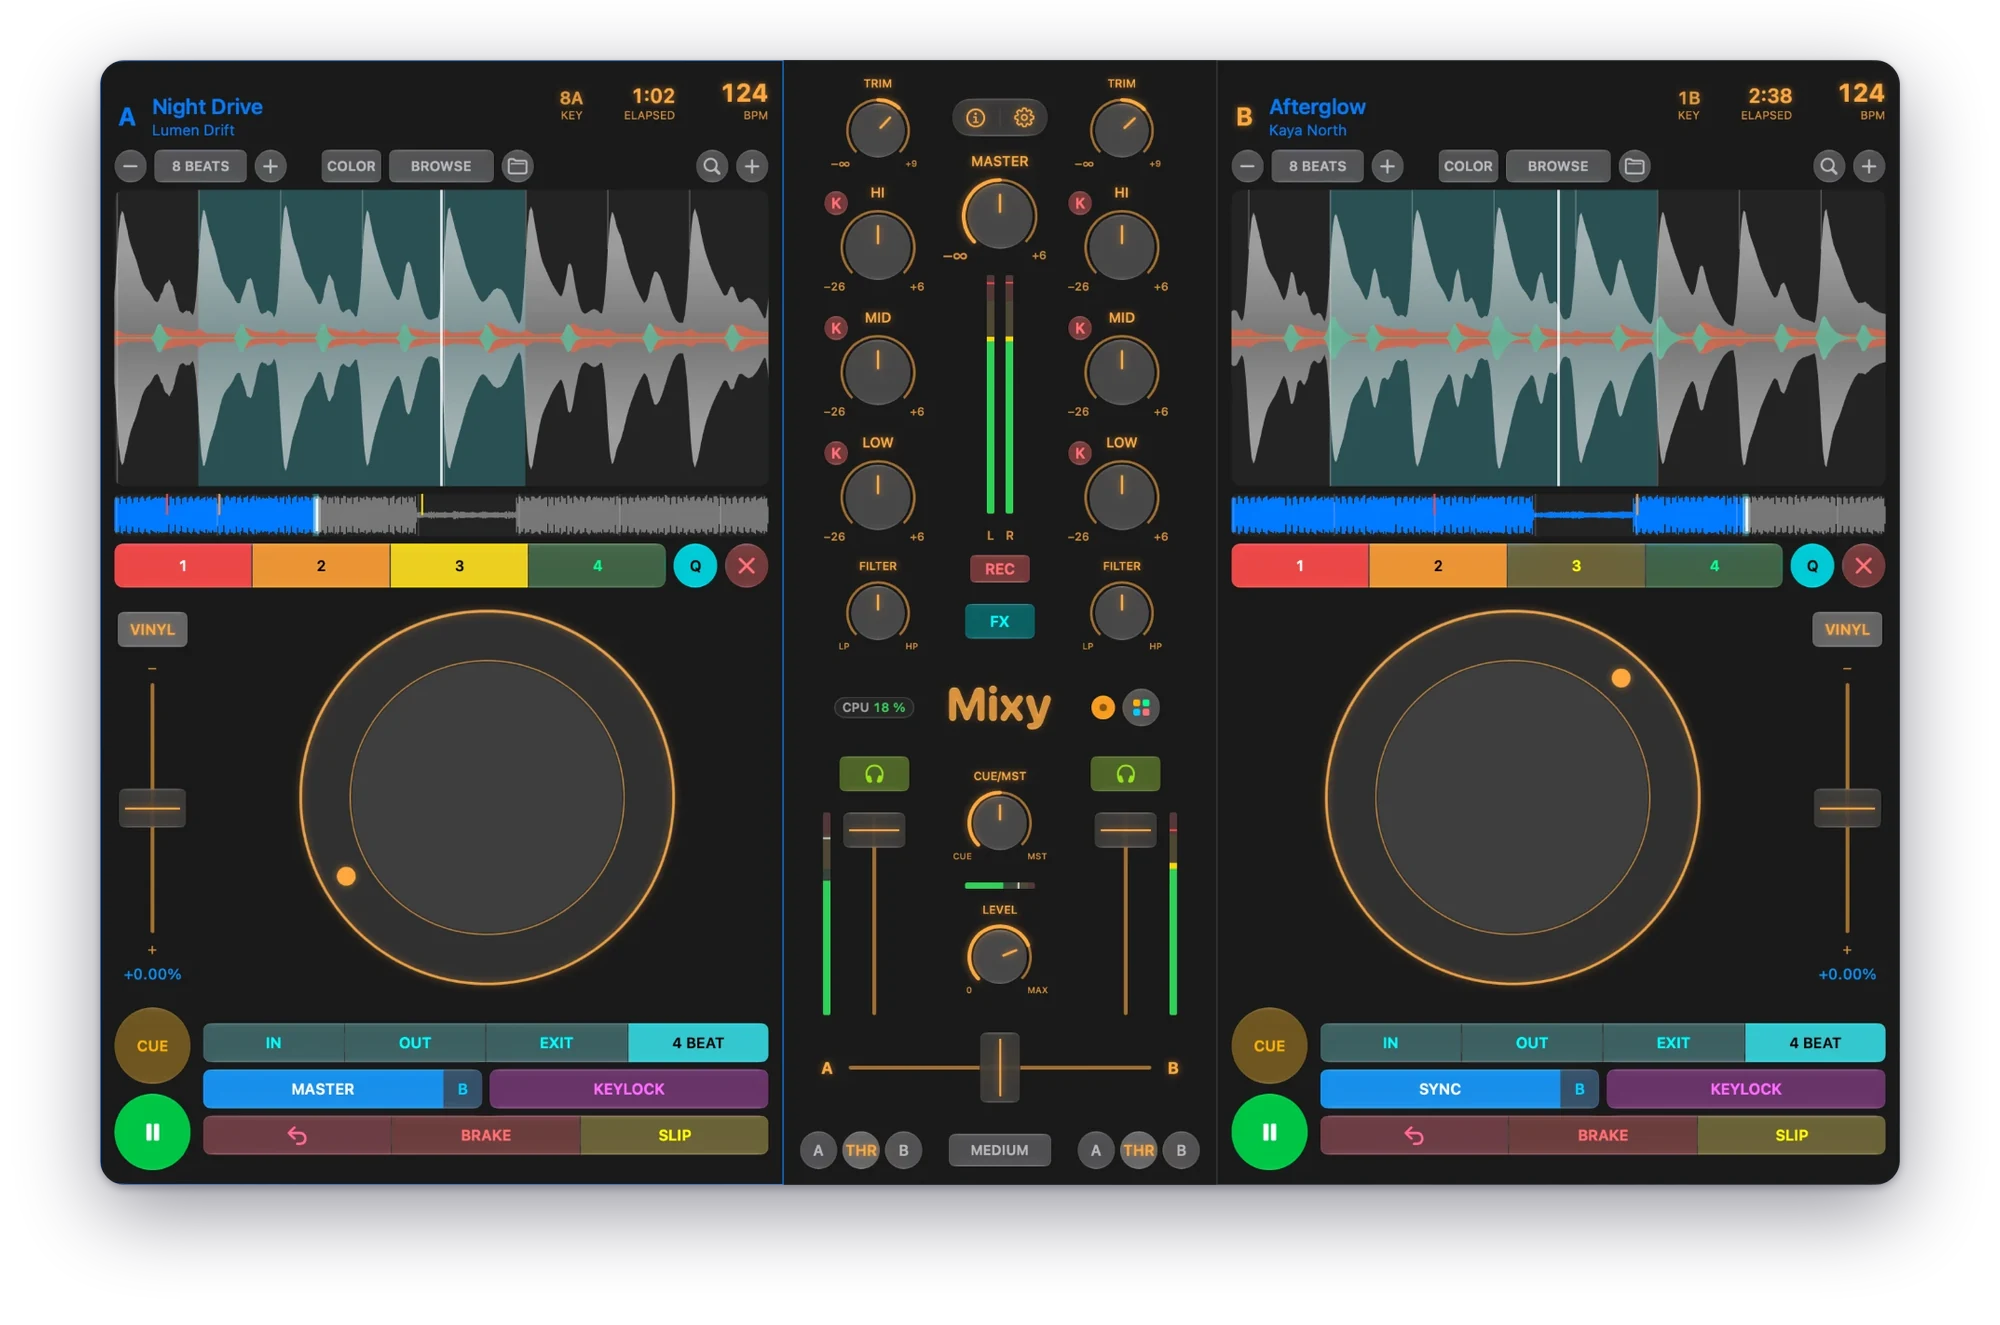
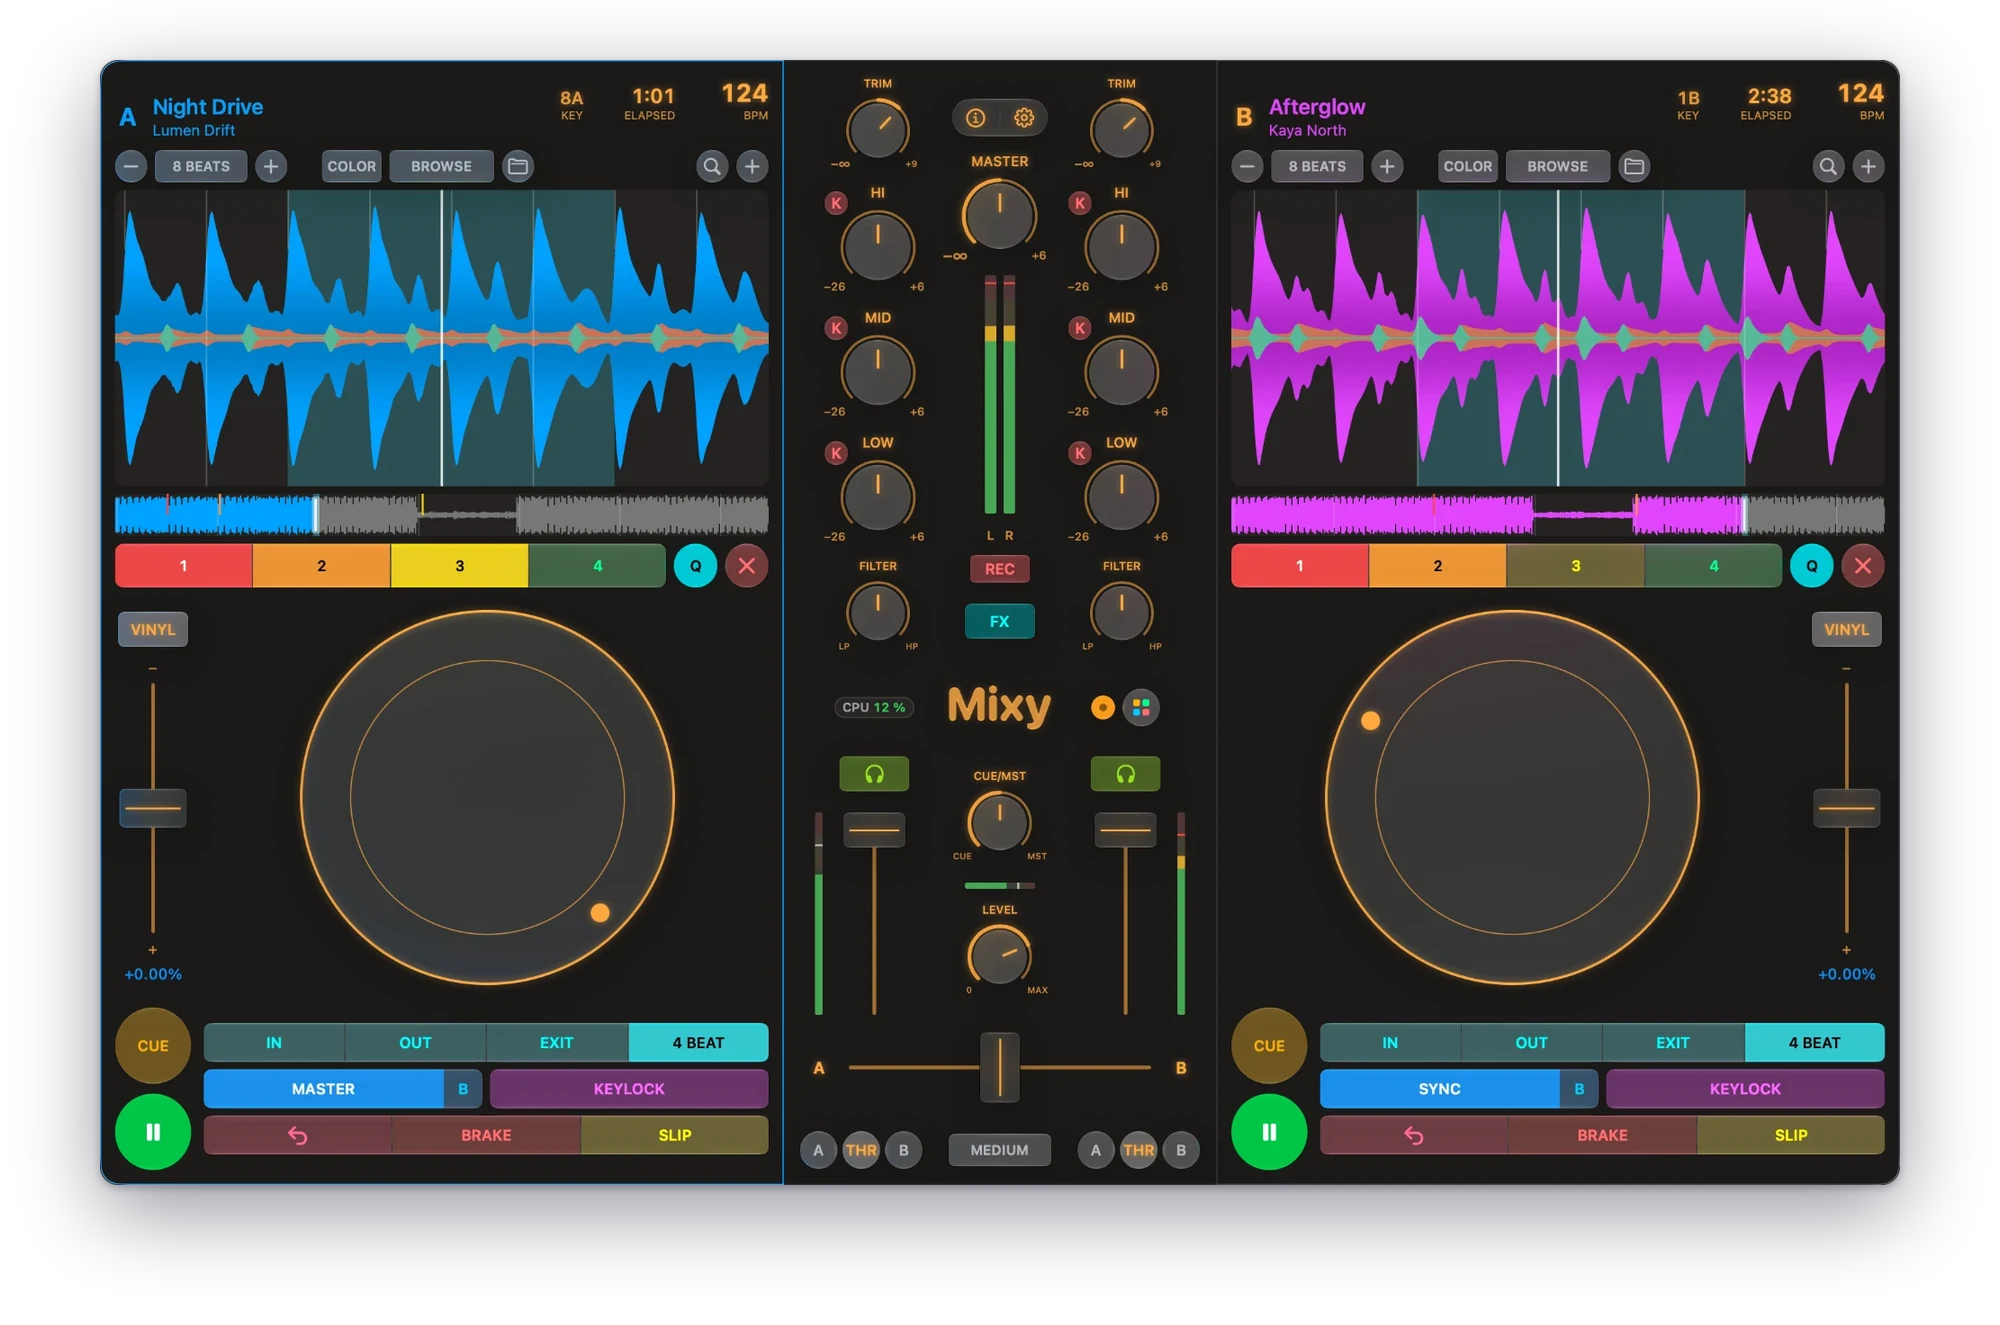
Mixy: new screenshots 1-10, waveforms in each deck's color
Claude-Session: https://claude.ai/code/session_01KuEoozSMi7F77NgTPBECaD

diff --git a/more/mixy/index.html b/more/mixy/index.html
@@ -192,11 +192,11 @@
             </div>
 
             <div class="showcase reveal">
-                <div class="shot bare zoomable"><img src="images/waveforms.webp" width="2000" height="1363" loading="lazy" alt="The Two waveforms layout: deck A's waveform in blue over deck B's in purple across the top; deck A shows its music folders, deck B its playlist"></div>
+                <div class="shot bare zoomable"><img src="images/waveforms.webp" width="2000" height="1325" loading="lazy" alt="The Two waveforms layout: deck A's waveform over deck B's across the top, each in its deck's color; deck A shows its music folders, deck B its playlist"></div>
                 <div>
                     <span class="tag">Two waveforms</span>
                     <h3>Both tracks, one above the other.</h3>
-                    <p>Choose the Two waveforms layout and both decks' waveforms go across the top of the window, deck A in blue over deck B in purple, with their beat grids. One zoom sets both, so you see at a glance if the beats line up. Drag the waveforms' lower edge to make them taller.</p>
+                    <p>Choose the Two waveforms layout and both decks' waveforms go across the top of the window, deck A over deck B, each in its deck's color, with their beat grids. One zoom sets both, so you see at a glance if the beats line up. Drag the waveforms' lower edge to make them taller.</p>
                     <p>Under them each deck shows its playlist, or your music folders as a tree. Drag a track from any playlist or folder onto either deck.</p>
                 </div>
             </div>
@@ -244,7 +244,7 @@
             </div>
 
             <div class="showcase flip reveal">
-                <div class="shot bare zoomable"><img src="images/no-mixer.webp" width="2000" height="1363" loading="lazy" alt="Mixy with the mixer hidden: the two waveforms on top and the two decks side by side, for playing from a DJ controller"></div>
+                <div class="shot bare zoomable"><img src="images/no-mixer.webp" width="2000" height="1325" loading="lazy" alt="Mixy with the mixer hidden: the two waveforms on top and the two decks side by side, for playing from a DJ controller"></div>
                 <div>
                     <span class="tag">With a controller</span>
                     <h3>Your controller mixes, the screen shows.</h3>
